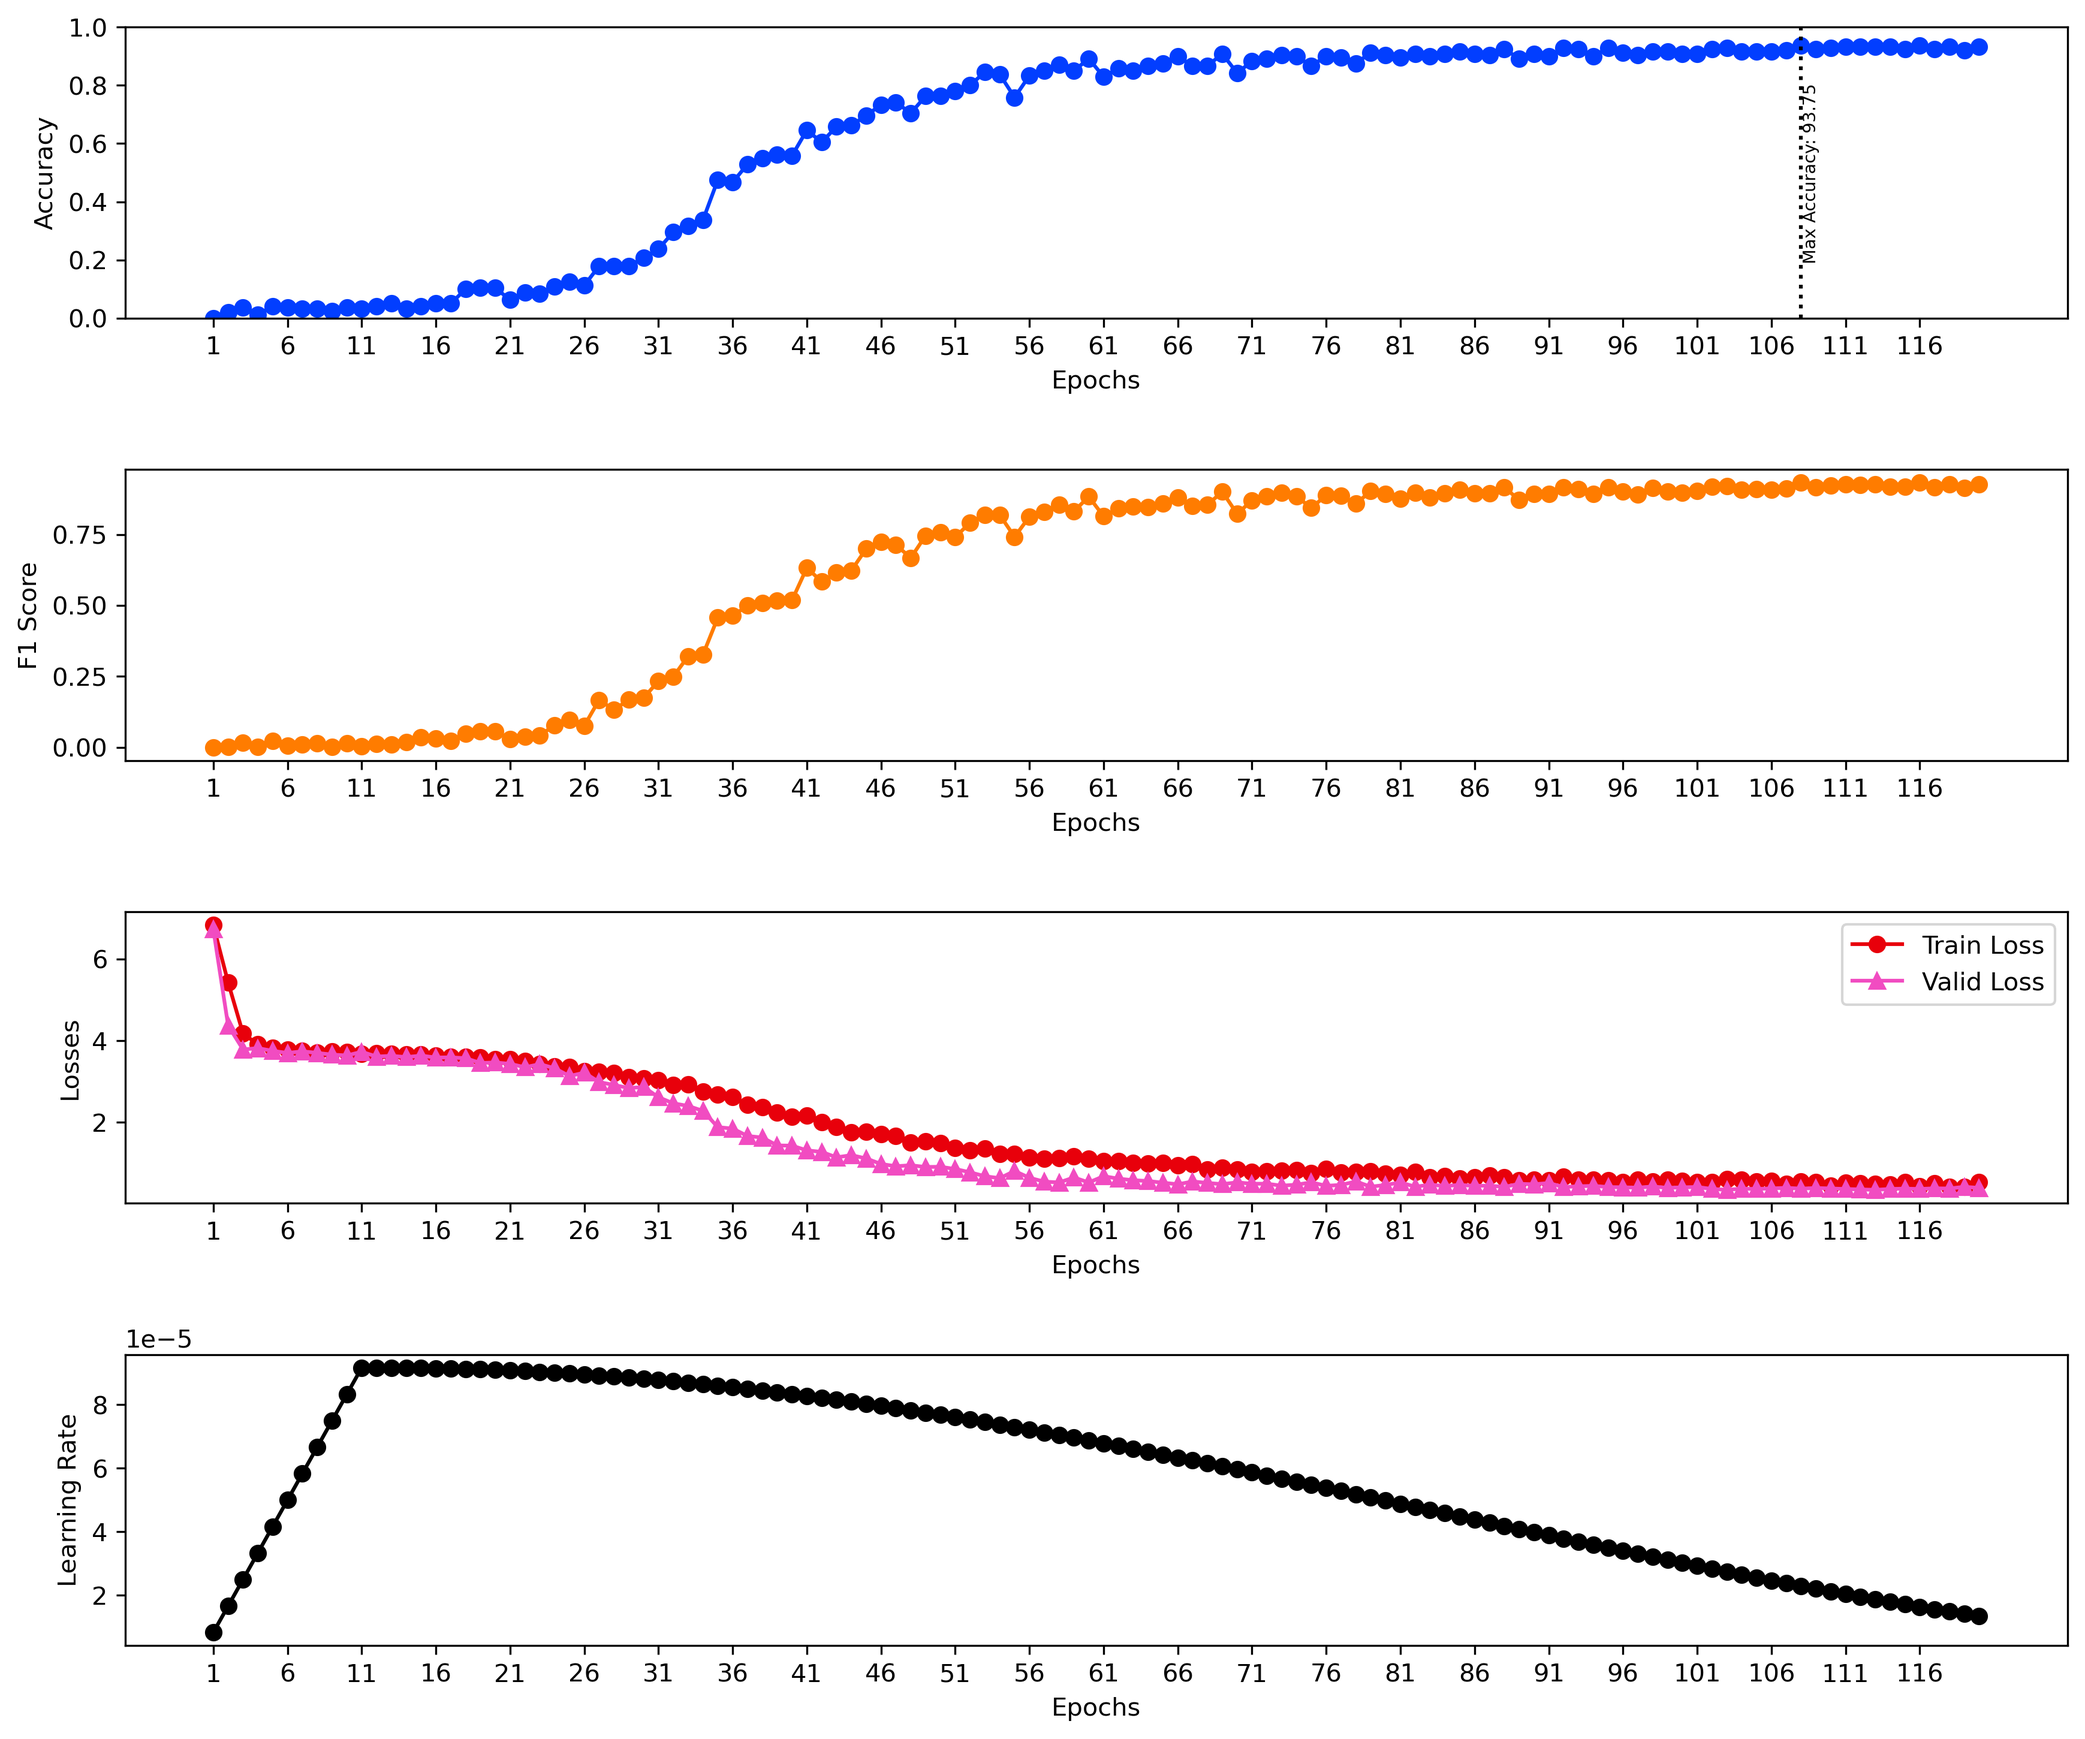
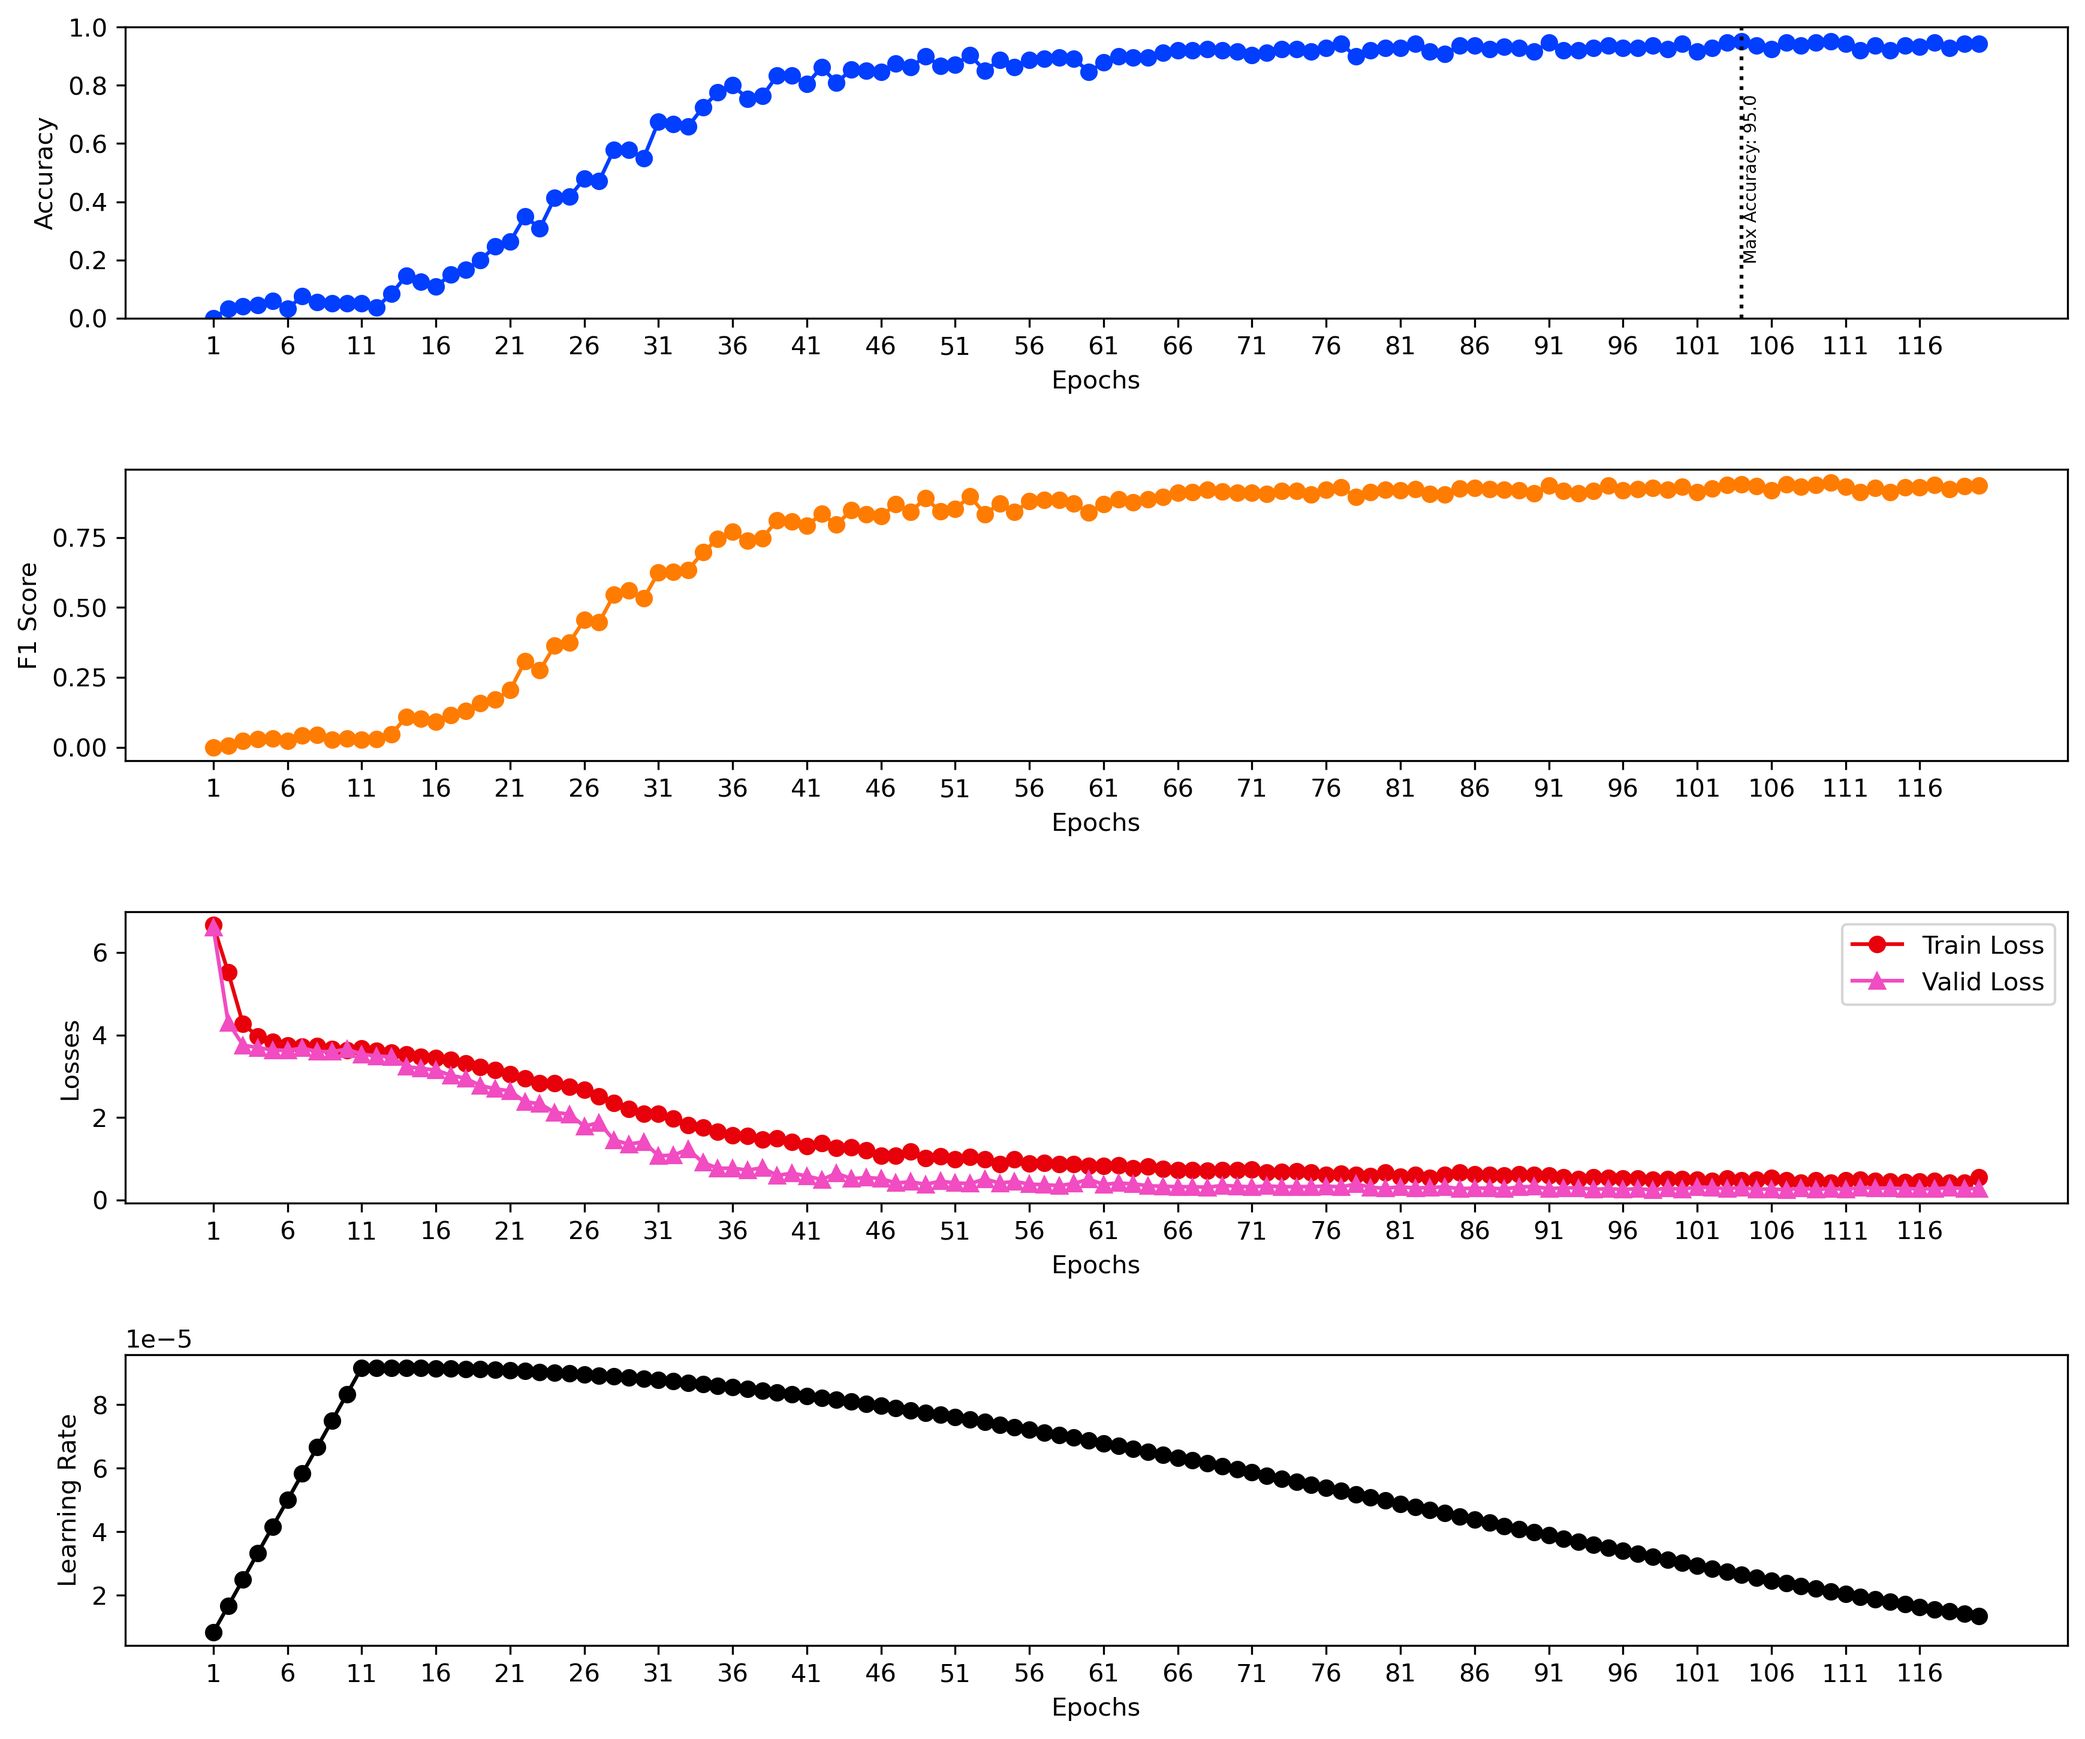
added rng seed, adamW weight decay, updated xmetaformer (seqpool) and saving model with highest accuracy now

diff --git a/CAFormer.py b/CAFormer.py
@@ -8,6 +8,7 @@ import torch.optim as optim
 from torch.optim.lr_scheduler import LambdaLR, CosineAnnealingLR
 from torch.utils.data import DataLoader
 from x_metaformer import CAFormer
+import pytorch_lightning as pl
 
 import utilsPlotting
 from ESC50Dataset import ESC50Data
@@ -18,7 +19,8 @@ from metrics import *
 
 
 # SETTINGS
-def settings():
+def setup_parameters():
+    pl.seed_everything(RNG_SEED)
     if DATASET == "SPEECH":
         current_hypers = HYPERPARAMS_SPEECH
     elif DATASET == "MUSIC":
@@ -81,19 +83,22 @@ def get_data(mixup):
     return train_data, valid_data, num_classes
 
 
-def setlr(opt, lr):
-    for param_group in opt.param_groups:
-        param_group['lr'] = lr
-    return opt
+def exclude_from_wt_decay(named_params, weight_decay, skip_list):
+    params = []
+    excluded_params = []
 
-
-def lr_decay(opt, epoch, hyperparameters):
-    # new_lr = LEARNING_RATE / (10 ** (epoch // LRDECAY_EPOCH))
-    current_learning_rate = opt.param_groups[0]["lr"]
-    new_lr = current_learning_rate / hyperparameters[2]
-    opt = setlr(opt, new_lr)
-    log.info(f'Changed learning rate to {new_lr}')
-    return opt
+    for name, param in named_params:
+        if not param.requires_grad:
+            continue
+        if any(layer_name in name for layer_name in skip_list):
+            excluded_params.append(param)
+            # print(f"skipped param {name}")
+        else:
+            params.append(param)
+    return [
+        {"params": params, "weight_decay": weight_decay},
+        {"params": excluded_params, "weight_decay": 0.0},
+    ]
 
 
 def lr_lambda(epoch):
@@ -106,7 +111,7 @@ def lr_lambda(epoch):
 class BNMetaFormer(CAFormer):
     def __init__(self, *args, **kwargs):
         super().__init__(*args, **kwargs)
-        self.bn = nn.BatchNorm2d(1, affine=False)   #
+        self.bn = nn.BatchNorm2d(1, affine=False)  #
 
     def forward(self, x, return_embeddings=False):
         x = self.bn(x)
@@ -124,13 +129,13 @@ def train_with_hyperparams(hyperparams, filepath):
             in_channels=1,
             depths=(3, 3, 9, 3),
             dims=(64, 128, 320, 512),  # 32-256
-            # init_kernel_size=combo[7],
-            init_kernel_size=(8, 4),
-            # init_stride=combo[8],
-            init_stride=(4, 2),
+            init_kernel_size=combo[5],
+            # init_kernel_size=(8, 4),
+            init_stride=combo[6],
+            # init_stride=(4, 2),
             drop_path_rate=0.5,  # 0.25
             norm='ln',  # ln, bn or rms (layernorm, batchnorm or rmsnorm)
-            use_dual_patchnorm=combo[5],  # norm on both sides for the patch embedding
+            use_dual_patchnorm=combo[3],  # norm on both sides for the patch embedding
             use_pos_emb=True,  # use 2d sinusodial positional embeddings
             head_dim=32,  # 16
             num_heads=4,  # 2,8
@@ -143,12 +148,13 @@ def train_with_hyperparams(hyperparams, filepath):
             sparse_topk=0,  # sparsify - keep only top k values (in the attention layers)
             l2=False,  # l2 norm on tokens (in the attention layers)
             improve_locality=False,  # remove attention on own token
-            use_starreglu=False  # use gated StarReLU
+            use_starreglu=False,  # use gated StarReLU
+            use_seqpool=True
         )
         my_metaformer = my_metaformer.to(device)
         log.info(f"Training Cycle {i + 1} of {len(hyperparam_combinations)}")
 
-        training_results = train(my_metaformer, criterion, train_loader, valid_loader, combo, num_classes,
+        training_results = train(my_metaformer, criterion, train_loader, valid_loader, combo,
                                  iteration=[i + 1, len(hyperparam_combinations)])
 
         max_acc = np.max([elem['avg_valid_acc'] for elem in training_results])
@@ -165,9 +171,18 @@ def train_with_hyperparams(hyperparams, filepath):
 
             data.append(combo)
             data.append(max_acc)
+            data.append(RNG_SEED)
 
             with open(filepath, 'w') as f:
                 json.dump(data, f)
+
+        if SAVE_MAX_MODEL:
+            with open('highest_acc.txt', 'r') as f:
+                current_max_acc = float(f.read())
+            if max_acc > current_max_acc:
+                with open('highest_acc.txt', 'w') as f:
+                    f.write(str(max_acc))
+                torch.save(my_metaformer, 'my_transformer_model.pt')
 
         if CONF_MATRIX:
             log.info("Calculating Confusion Matrix")
@@ -177,13 +192,18 @@ def train_with_hyperparams(hyperparams, filepath):
             utilsPlotting.plot_results(training_results)
 
 
-def train(model, loss_fn, train_loader, val_loader, hyperparameters, classes, iteration):
+def train(model, loss_fn, train_loader, val_loader, hyperparameters, iteration):
     start_time = time.time()
 
     res_array = []
     train_losses = []
     valid_losses = []
-    optimizer = optim.Adam(model.parameters(), lr=hyperparameters[0])
+    params = exclude_from_wt_decay(
+        model.named_parameters(),
+        hyperparameters[7],
+        ["temp", "temperature", "scale", "norm"],
+    )
+    optimizer = optim.AdamW(params, lr=hyperparameters[0], weight_decay=hyperparameters[7])
     scheduler_warumup = LambdaLR(optimizer, lr_lambda)
     scheduler_cos = CosineAnnealingLR(optimizer, T_max=1.2 * EPOCHS)
 
@@ -194,10 +214,10 @@ def train(model, loss_fn, train_loader, val_loader, hyperparameters, classes, it
 
         for i, data in tqdm(enumerate(train_loader), desc='Epoch progress', ncols=33):
             x, y = data
-            if hyperparameters[3]:  # RANDOM_RESIZE_CROP
+            if hyperparameters[1]:  # RANDOM_RESIZE_CROP
                 resize_cropper = RandomResizeCrop()
                 x = resize_cropper(x)
-            if hyperparameters[4]:  # RANDOM_LINEAR_FADE
+            if hyperparameters[2]:  # RANDOM_LINEAR_FADE
                 linear_fader = RandomLinearFader()
                 x = linear_fader(x)
             optimizer.zero_grad()
@@ -257,11 +277,11 @@ def train(model, loss_fn, train_loader, val_loader, hyperparameters, classes, it
 
 if __name__ == "__main__":
     if ONLY_TABULATE:
-        filename = f"results//results_{DATASET}_new.json"
+        filename = f"results//results_{DATASET}0703.json"
         utilsPlotting.tabulate_data(filename)
         quit()
 
-    current_hyperparams = settings()
+    current_hyperparams = setup_parameters()
     log = initiate_logging()
     log.info(f'Loading and preprocessing {DATASET} datasets...')
 
@@ -279,7 +299,7 @@ if __name__ == "__main__":
 
     criterion = nn.CrossEntropyLoss()
 
-    filename = f"results//results_{DATASET}_new.json"
+    filename = f"results//results_{DATASET}0703.json"
     train_with_hyperparams(current_hyperparams, filename)
 
     # CAmodel = CAFormer(

diff --git a/utilsPlotting.py b/utilsPlotting.py
@@ -260,19 +260,19 @@ def tabulate_data(filepath):
         data = json.load(f)
 
     df = pd.DataFrame(
-        columns=["Max accuracy", "kernel size", "stride", "RCC", "RLF", "patchnorm", "Mixup"])
+        columns=["Max acc", "seed", "kernel", "stride", "RCC", "RLF", "pn", "Mixup", "wd"])
 
     # iterate over data
-    for i in range(0, len(data), 2):
-        params, acc = data[i], data[i + 1]
-        lr, rcc, rlf, dual_patchnorm, mixup, init_kernel_size, init_stride = params
+    for i in range(0, len(data), 3):
+        params, acc, seed = data[i], data[i + 1], data[i+2]
+        lr, rcc, rlf, dual_patchnorm, mixup, init_kernel_size, init_stride, weight_decay = params
 
         # get the results values
         # add a new row to the DataFrame
-        df.loc[i // 2] = [acc, init_kernel_size, init_stride, rcc, rlf, dual_patchnorm, mixup]
+        df.loc[i // 2] = [acc, seed, init_kernel_size, init_stride, rcc, rlf, dual_patchnorm, mixup, weight_decay]
 
     # sort the rows based on the 'Avg Valid Acc' column
-    df = df.sort_values(by=['Max accuracy'], ascending=False)
+    df = df.sort_values(by=['Max acc'], ascending=False)
 
     # Set option to display all columns
     pd.set_option('display.max_columns', None)

diff --git a/SpeechDataset.py b/SpeechDataset.py
@@ -82,6 +82,8 @@ class SpeechDataset(Dataset):
         self.i2c = {}
         self.mode = mode
         self.categories = categories
+        self.mean = 0
+        self.std = 0
         for ind in tqdm(range(len(x)), desc=self.mode + ' dataset', ncols=37):
             file_path = x[ind]
             audio = AudioUtil.open(file_path)
@@ -93,10 +95,18 @@ class SpeechDataset(Dataset):
                 mixer = MixupBYOLA(ratio=0.2, log_mixup_exp=True)
                 sgram = mixer(sgram)
             self.data.append(sgram)
+            self.mean += sgram.mean()
+            self.std += sgram.std()
+
+        self.mean /= len(x)
+        self.std /= len(x)
+        # print('Mean:', self.mean, 'Std:', self.std)
 
     def __len__(self):
         return len(self.data)
 
     def __getitem__(self, idx):
-        # print(self.data[idx].shape)  # (1, 128, 431)
-        return self.data[idx], self.labels[idx]
+        # normalize spectrogram using dataset mean and stddev
+        sgram = self.data[idx]
+        sgram = (sgram - self.mean) / self.std
+        return sgram, self.labels[idx]

diff --git a/settings.py b/settings.py
@@ -5,7 +5,8 @@ HYPERPARAMS_SPEECH = {
     'dual_patchnorm': [True],
     'mixup': [True],  # only 1 value possible atm
     'init_kernel_size': [(8, 4)],
-    'init_stride': [(4, 2)]
+    'init_stride': [(4, 2)],
+    'weight_decay': [1e-1, 1e-2, 1e-3]
 }
 
 HYPERPARAMS_ESC50 = {
@@ -30,11 +31,14 @@ HYPERPARAMS_MUSIC = {
 
 # General
 DATASET = "SPEECH"  # "SPEECH", "ESC50", "MUSIC"
-SAVE_DATA = False
+RNG_SEED = 2
+
+ONLY_TABULATE = False
+SAVE_DATA = True
+SAVE_MAX_MODEL = True
 PLOT_RES = True
 MONITORING = False
 UPDATE_INTERVAL = 5  # every x Epochs
-ONLY_TABULATE = False
 CONF_MATRIX = False
 
 # Training Loop
@@ -57,9 +61,3 @@ NMELS = 128
 FMIN = 20
 FMAX = 8300
 TOPDB = 80
-
-# Augmentations
-# TIME_MASKING = False
-# FREQ_MASKING = False
-# TIME_SHIFT_ON = False
-# NOISE_INJECT = False  # zu stark, eh useless
